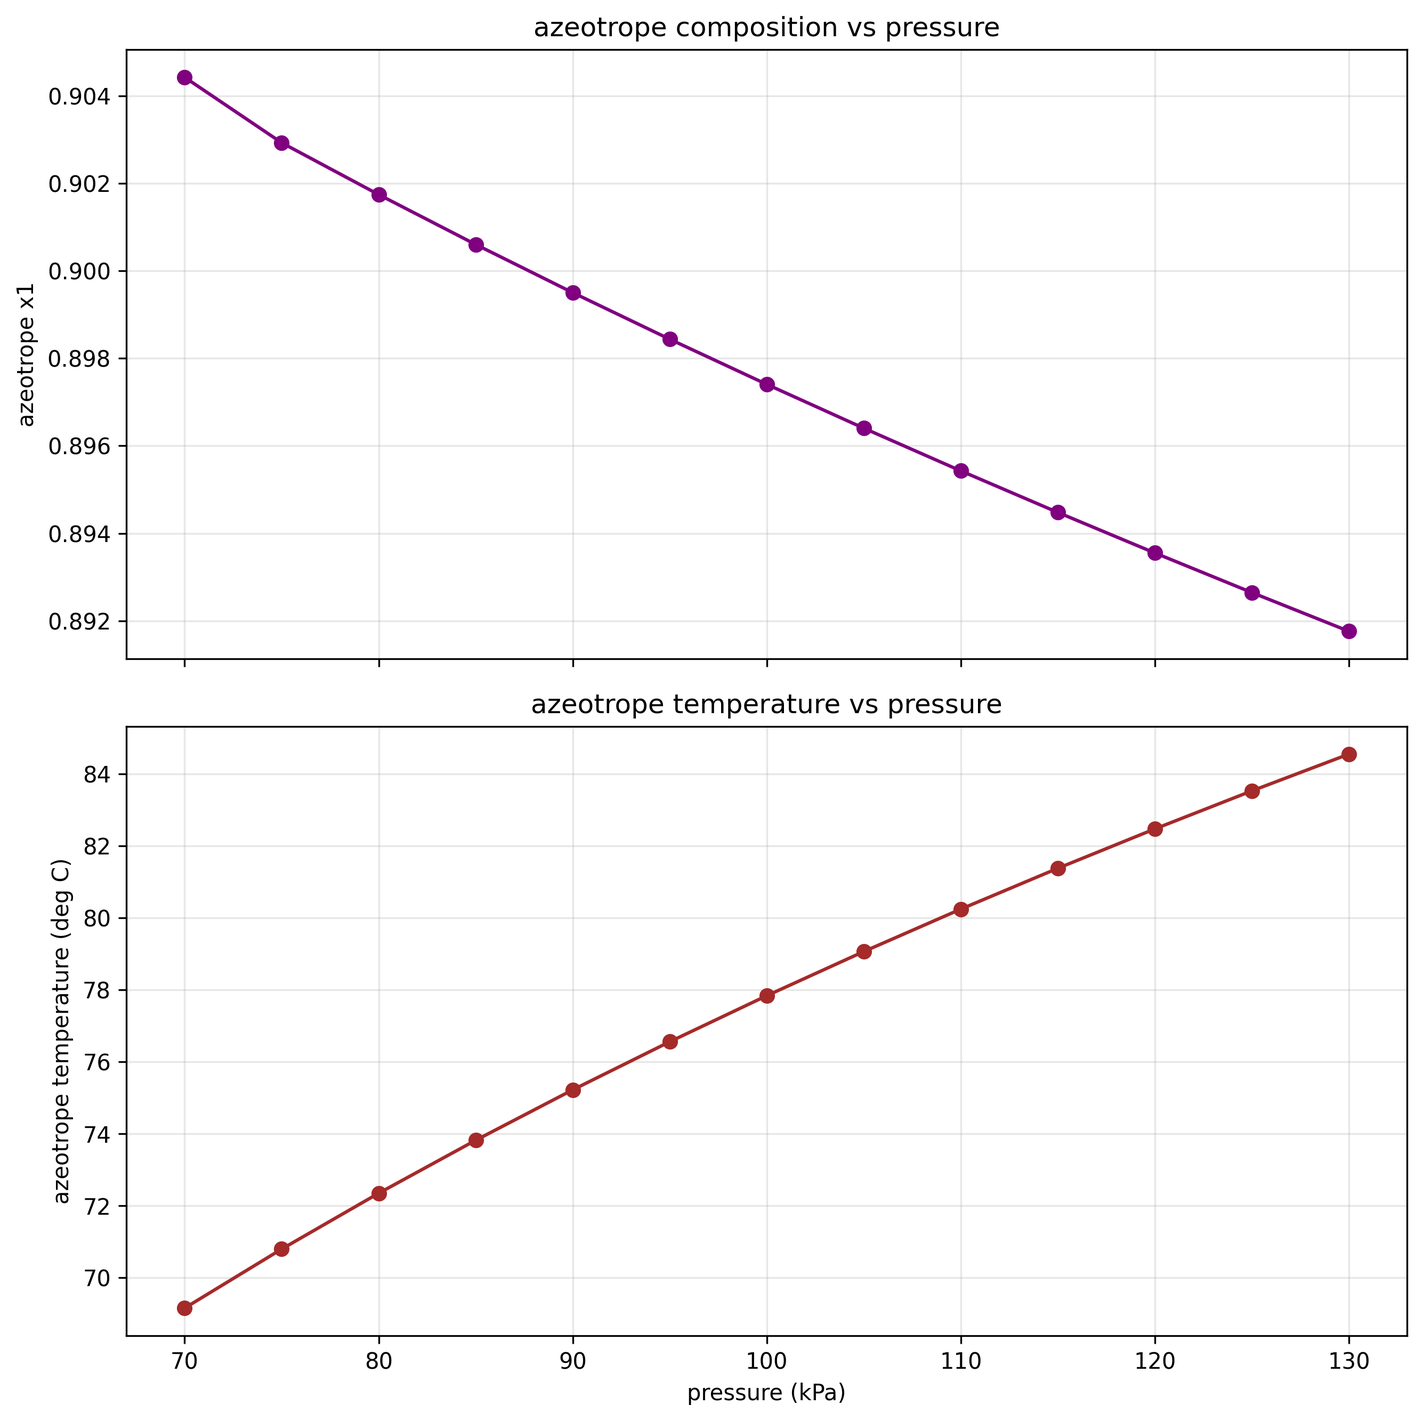
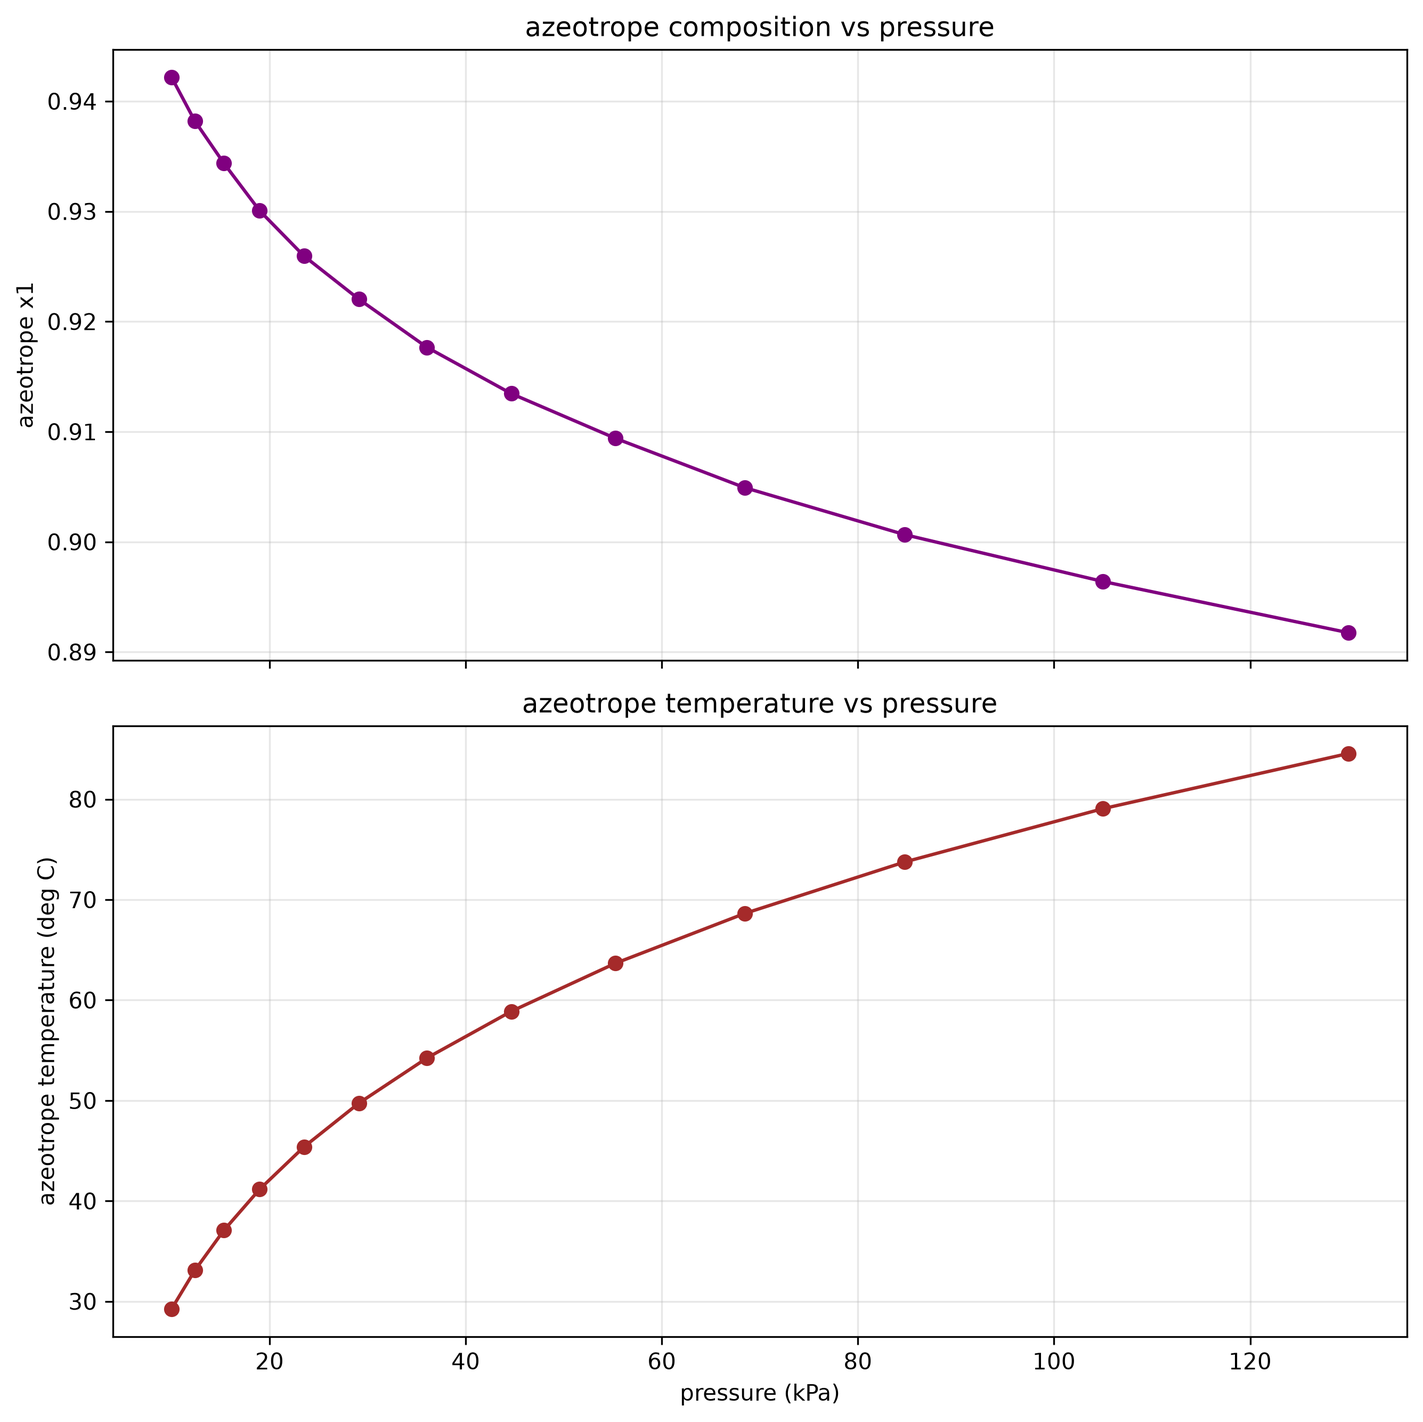
docs: README in the common format; regenerate stale outputs; fix pure boiling points
README
- Same structure as the other repositories: key result, what the project is,
  results, quick start, validation, limitations, structure, sources, references.
  The changelog-style sections ("Current Capabilities", "Optimization Notes")
  are gone.
- States which code is current: report2026/ (the report and the numbers on the
  page); src/ is the original course code. Both use the same NRTL parameters;
  their vapour-pressure correlations give 0.072 vs 0.088 K mean error.
- Directory tree now lists report2026/, web/, data/experimental/, final_outputs/.
- Test count 45 -> 47 (46 plus the new one below); 13 report2026 tests listed.
- Michelsen (1982) flash/stability papers removed: nothing in the code uses
  them, and a binary VLE at fixed P does not need a stability analysis. Added
  the references the calculations do use (Ambrose & Sprake, IAPWS-95,
  Tsonopoulos, Herington), matching the report.
- Dropped the PYTHONUTF8 hint; the verification script reconfigures stdout.

Fixes
- src/main.py printed the bubble temperature at x1 = 0.01 and 0.99 as the
  pure-component boiling points (97.1 degC for water). New models.tsat_celsius
  inverts the Antoine equation; water now prints 100.0 degC, ethanol 78.3 degC.
- final_outputs/data/run_summary.json still attributed the parameters to the
  NIST WebBook and DECHEMA, the sources the README had already corrected, and
  the pressure sweep was from an older grid. Regenerated with
[…]

diff --git a/src/main.py b/src/main.py
@@ -6,6 +6,7 @@ from __future__ import annotations
 import argparse
 from pathlib import Path
 
+from models import tsat_celsius
 from pipeline import run_analysis
 
 
@@ -33,8 +34,11 @@ def print_summary(result) -> None:
     print(f"max HE (J/mol): {result.HE_j_mol.max():.3f}")
     print(f"min HE (J/mol): {result.HE_j_mol.min():.3f}")
 
-    ethanol_bp = float(result.nrtl.T_celsius[-1])
-    water_bp = float(result.nrtl.T_celsius[0])
+    # Pure-component boiling points from the Antoine sets (the composition grid
+    # stops at x1 = 0.01 and 0.99, where the bubble point is already shifted)
+    pressure = result.system.pressure_kpa
+    water_bp = tsat_celsius(pressure, result.system.component_2.antoine)
+    ethanol_bp = tsat_celsius(pressure, result.system.component_1.antoine)
     print(f"boiling point water   : {water_bp:.3f} deg C")
     print(f"boiling point ethanol : {ethanol_bp:.3f} deg C")
 

diff --git a/tests/test_models.py b/tests/test_models.py
@@ -16,6 +16,7 @@ from models import (
     gamma_van_laar,
     psat_kpa,
     tau_value,
+    tsat_celsius,
 )
 from parameter_store import load_system_parameters
 
@@ -37,6 +38,13 @@ class TestAntoineEquation(unittest.TestCase):
         """Water Psat at 100.0 degC should be ~101.3 kPa."""
         psat = psat_kpa(100.0, self.water)
         self.assertAlmostEqual(psat, 101.325, delta=2.0)
+
+    def test_tsat_inverts_psat(self):
+        """tsat_celsius is the exact inverse of psat_kpa (normal boiling points at 1 atm)."""
+        for comp, bp in ((self.water, 100.0), (self.ethanol, 78.3)):
+            T = tsat_celsius(101.325, comp)
+            self.assertAlmostEqual(psat_kpa(T, comp), 101.325, places=9)
+            self.assertAlmostEqual(T, bp, delta=0.1)
 
     def test_psat_monotonically_increasing(self):
         """Psat must increase with temperature for both components."""

diff --git a/src/models.py b/src/models.py
@@ -68,6 +68,16 @@ def psat_kpa(T_celsius: float, params: AntoineParams) -> float:
     return psat
 
 
+def tsat_celsius(pressure_kpa: float, params: AntoineParams) -> float:
+    r"""Saturation temperature in degC at a given pressure (inverse of :func:`psat_kpa`).
+
+    .. math::
+        T = \frac{B}{A - \log_{10} P^{\mathrm{sat}}} - C
+    """
+    p = pressure_kpa / 0.133322 if params.unit.lower() == "mmhg" else pressure_kpa
+    return params.B / (params.A - np.log10(p)) - params.C
+
+
 def dpsat_dT_kpa_per_celsius(T_celsius: float, params: AntoineParams) -> float:
     r"""Temperature derivative of Antoine saturation pressure, kPa/degC.
 

diff --git a/README.md b/README.md
@@ -1,205 +1,135 @@
-# Ethanol-Water VLE Final Project
+# Ethanol-Water-VLE
+
+[![CI](https://github.com/Shuruyue/Ethanol-Water-VLE/actions/workflows/ci.yml/badge.svg)](https://github.com/Shuruyue/Ethanol-Water-VLE/actions/workflows/ci.yml)
+![Python 3.10+](https://img.shields.io/badge/python-3.10%2B-blue)
+![License: MIT](https://img.shields.io/badge/license-MIT-green)
 
 **[Interactive page](https://shuruyue.github.io/Ethanol-Water-VLE/web/ethanol-water-vle.html)**: move the sliders to recompute T–x–y, the deviation from the Kamihama et al. (2012) data, ΔH_mix and the McCabe–Thiele column live in the browser (one self-contained file; also works offline). The ideal-solution model misses the boiling points of ethanol–water at 1 atm by up to 11 K and cannot produce the azeotrope; NRTL with literature parameters matches the 21 measured points to 0.07 K on average and puts the azeotrope at x₁ = 0.895 and 78.14 °C (measured: 0.895 and 78.11 °C).
 
 [![The interactive page: T–x–y diagram, close-up of the azeotrope and relative volatility](web/ethanol-water-vle.png)](https://shuruyue.github.io/Ethanol-Water-VLE/web/ethanol-water-vle.html)
 
-This repository contains the computation code for the chemical thermodynamics final project.
-The scope is ethanol(1)-water(2) with non-ideal liquid behavior.
+## Ethanol–Water VLE with NRTL
+
+Final project of a chemical thermodynamics course (Sandler, *Chemical, Biochemical, and Engineering Thermodynamics*): vapour–liquid equilibrium of ethanol(1)–water(2) at 1 atm with an activity-coefficient model, the excess properties, and what the non-ideality means for the energy demand and design of a distillation column. The models are validated against the isobaric data of Kamihama et al. (2012).
 
 > This project originally lived in the `vle_consulting/` folder of a fork of
 > [CalebBell/thermo](https://github.com/CalebBell/thermo) (the fork has since been removed).
 > It was split out with its full commit history; the code does not depend on that fork.
-> `tests/verify_scientific_correctness.py` can optionally cross-check the NRTL
-> implementation against the `thermo` package (`pip install thermo`).
 
-## Current Capabilities
+### Two code bases
 
-- VLE prediction at fixed pressure: `T-x-y`, `y-x`
-- Excess properties from NRTL: `GE`, `HE`, `CPE`
-- Model comparison: ideal, Van Laar, NRTL
-- Interactive dashboard (Wolfram-style exploration)
-- Practical image-pack export for engineering decisions
-- Final build pipeline: plots + CSV tables + summary JSON
-- Shared profile engine for CLI/export/UI consistency (`src/profiles.py`)
-- Interpolated azeotrope detection (sub-grid estimate)
-- Isothermal export includes `alpha12` (relative volatility) directly
-- Dashboard supports one-click CSV download of current state
+| Folder | What it is | Vapour pressure |
+|---|---|---|
+| [`report2026/`](report2026/) | **The current analysis.** The revised report (PDF) and the calculations behind every number in it: parameter regression, validation, Herington consistency test, excess properties, azeotrope vs pressure, pressure-swing and column design, ethylene glycol ternary data. The results on this page come from here. | ethanol: NIST Antoine set (Ambrose & Sprake 1970); water: IAPWS-95 |
+| [`src/`](src/) | The original course-project code: command-line analysis, Streamlit dashboard, figure and CSV export to `final_outputs/`. | tabulated mmHg / °C Antoine sets ([`data/parameter_db.json`](data/parameter_db.json)) |
 
-## Directory
+Both use the same literature NRTL parameters. The vapour-pressure correlations shift the results slightly: the mean temperature error against the data is 0.072 K in `report2026/` and 0.088 K in `src/`, and the azeotrope is at x₁ = 0.895, 78.14 °C and x₁ = 0.897, 78.17 °C. The interactive page can switch between the two.
+
+## Key Results
+
+At 101.3 kPa, against the 21 points of Kamihama et al. (2012) (`report2026/`):
+
+| Model | Mean \|ΔT\| | Max \|ΔT\| | Mean \|Δy₁\| | Azeotrope |
+|---|---|---|---|---|
+| Ideal solution (Raoult's law) | 5.5 K | 11.2 K | 0.092 | none |
+| NRTL, literature parameters (Aspen / DDB) | 0.072 K | 0.28 K | 0.0027 | x₁ = 0.895, 78.14 °C |
+| NRTL, fitted to the data here | 0.116 K | 0.61 K | 0.0039 | x₁ = 0.891, 78.13 °C |
+| Van Laar, fitted to the data here | 0.080 K | 0.35 K | 0.0031 | x₁ = 0.892, 78.13 °C |
+| Measured | | | | x₁ = 0.895, 78.11 °C |
+
+- The data pass the Herington consistency test (D = 3.7 < J = 9.3).
+- Vapour-phase non-ideality (Tsonopoulos second virial coefficients) moves the bubble temperature by at most 0.06 K at 1 atm, so the ideal-gas vapour is adequate there.
+- Column design, 100 kmol/h from x_F = 0.10 to x_D = 0.85 at R = 1.3 R_min: the ideal-solution model gives R_min = 6.6 and a reboiler duty of 1250 kW, NRTL gives R_min = 1.9 and 451 kW. The ideal model overestimates the energy demand 2.8-fold, and a column designed with it reaches only x_D = 0.83 in the real system.
+- |ΔH_mix| stays below 0.6 % of the heat of vaporization, so mixing heat does not matter for the column energy balance.
+
+## Quick Start
+
+```bash
+git clone https://github.com/Shuruyue/Ethanol-Water-VLE.git
+cd Ethanol-Water-VLE
+pip install -r requirements.txt pytest pandas chemicals CoolProp
+```
+
+### Report calculations (`report2026/`)
+
+```bash
+cd report2026/calc
+python run_analysis.py && python make_figures.py   # results/ and fig/
+python make_numbers.py && python make_tables.py    # LaTeX number macros and tables
+```
+
+Every number in the PDF is read from `results/results.json`. Building the PDF needs XeLaTeX with Chinese support; see [`report2026/README.md`](report2026/README.md).
+
+### Course code (`src/`)
+
+```bash
+python src/main.py                         # summary and T-x-y, y-x, GE, HE, McCabe-Thiele plots → figures/
+python src/final_build.py --output-root final_outputs --points 80 --t-ref 78.2
+streamlit run src/interactive_app.py       # dashboard: pressure, temperature, NRTL parameters
+```
+
+`final_build.py` writes the committed [`final_outputs/`](final_outputs/): baseline and practical-pack plots, model curves, isothermal G^E/H^E/C_p^E/γ/α₁₂ tables at 78.2 °C, the azeotrope-vs-pressure sweep and `run_summary.json`.
+
+## Validation
+
+```bash
+pytest -q tests                                  # 47 tests of src/, including validation against the measured data
+python tests/verify_scientific_correctness.py    # 22 scientific checks (optional cross-check with `pip install thermo`)
+cd report2026/calc && pytest -q test_core.py     # 13 tests: Gibbs–Helmholtz, pure-component limits, azeotrope vs experiment
+```
+
+CI runs all three on Ubuntu and Windows with Python 3.10 and 3.12.
+
+## Limitations
+
+- Binary system only, with constant-molar-overflow McCabe–Thiele columns (saturated-liquid feed, total condenser; no tray efficiency or hydraulics).
+- The literature NRTL parameters come without uncertainties; standard errors are given only for the parameters fitted here.
+- The `src/` Antoine set for ethanol is tabulated up to 80 °C and is extrapolated at the water-rich end of the 1 atm diagram (deviation from the Schroeder et al. 2014 reference equation of state below 0.8 % up to 100 °C).
+- `src/` treats the vapour as an ideal gas. `report2026/` checks the second-virial correction, which is small at 1 atm but grows with pressure (the pressure-swing case goes up to 300 kPa).
+
+## Project Structure
 
 ```text
 Ethanol-Water-VLE/
+├── report2026/                 # current analysis and report
+│   ├── calc/                   # vle_core.py, run_analysis.py, figure/number/table scripts, test_core.py
+│   ├── data/                   # Kamihama et al. (2012): binary and ternary data with ethylene glycol
+│   ├── results/                # results.json and CSV tables (generated)
+│   ├── fig/  tex/              # figures and LaTeX source
+│   └── VLE_Consulting_Report_2026.pdf
+├── src/                        # original course code
+│   ├── models.py  solver.py    # Antoine, ideal / Van Laar / NRTL, bubble-point solver
+│   ├── pipeline.py  analysis.py  profiles.py  experimental_data.py  parameter_store.py
+│   ├── main.py  final_build.py  output_pack.py  export_data.py  plotting.py
+│   └── interactive_app.py      # Streamlit dashboard
 ├── data/
-│   └── parameter_db.json
-├── figures/
-├── src/
-│   ├── main.py
-│   ├── interactive_app.py
-│   ├── output_pack.py
-│   ├── export_data.py
-│   ├── final_build.py
-│   ├── pipeline.py
-│   ├── parameter_store.py
-│   ├── models.py
-│   ├── solver.py
-│   ├── analysis.py
-│   ├── profiles.py
-│   └── plotting.py
-└── tests/
-    ├── conftest.py
-    ├── test_models.py
-    ├── test_solver.py
-    ├── test_analysis.py
-    ├── test_plotting.py
-    ├── test_pipeline.py
-    ├── test_parameter_store.py
-    ├── test_output_pack.py
-    ├── test_export_data.py
-    └── verify_scientific_correctness.py
+│   ├── parameter_db.json       # parameters with sources (used by src/)
+│   └── experimental/           # Kamihama et al. (2012) ethanol–water at 101.3 kPa
+├── final_outputs/              # plots and tables written by src/final_build.py
+├── tests/                      # pytest suite for src/ and verify_scientific_correctness.py
+├── web/                        # interactive page (GitHub Pages)
+└── .github/workflows/ci.yml
 ```
 
-## Install
+## Data and Parameter Sources
 
-```bash
-pip install -r requirements.txt
-```
+- **NRTL**: Aspen Plus databank values regressed from the Dortmund Data Bank (a₁₂ = −0.8009, b₁₂ = 246.18 K, a₂₁ = 3.4578, b₂₁ = −586.08 K, α = 0.3), as tabulated in Beneke et al. (2013), Appendix B. τᵢⱼ = aᵢⱼ + bᵢⱼ/T.
+- **Vapour pressure**: `report2026/` uses the NIST WebBook Antoine set for ethanol (Ambrose & Sprake 1970, 292.77–366.63 K) and IAPWS-95 for water. `src/` uses common tabulated mmHg / °C Antoine sets (ethanol −57 to 80 °C, water −20 to 100 °C); these are not NIST sets.
+- **Van Laar**: A₁₂ = 1.65, A₂₁ = 0.95 in `src/` are the illustrative values of the course handout code, not literature values; `report2026/` fits A₁₂ = 1.700 ± 0.013, A₂₁ = 0.953 ± 0.002.
+- **Experimental data**: Kamihama et al. (2012), transcribed from the NIST TRC ThermoML archive with the TRC expanded uncertainties.
+- `data/parameter_db.json` stores every parameter block with its source; the loader rejects blocks without one.
 
-## Run Baseline CLI
+## References
 
-```bash
-python src/main.py
-python src/main.py --points 80
-python src/main.py --output-dir figures
-python src/main.py --no-plots
-```
+1. H. Renon, J. M. Prausnitz, Local compositions in thermodynamic excess functions for liquid mixtures, *AIChE J.* **14** (1968) 135–144.
+2. N. Kamihama, H. Matsuda, K. Kurihara, K. Tochigi, S. Oba, Isobaric vapor–liquid equilibria for ethanol + water + ethylene glycol and its constituent three binary systems, *J. Chem. Eng. Data* **57** (2012) 339–344. [doi:10.1021/je2008704](https://doi.org/10.1021/je2008704)
+3. D. Beneke, M. Peters, D. Glasser, D. Hildebrandt, *Understanding Distillation Using Column Profile Maps*, Wiley, 2013, Appendix B.
+4. D. Ambrose, C. H. S. Sprake, Thermodynamic properties of organic oxygen compounds XXV, *J. Chem. Thermodyn.* **2** (1970) 631–645.
+5. W. Wagner, A. Pruß, The IAPWS formulation 1995 for the thermodynamic properties of ordinary water substance, *J. Phys. Chem. Ref. Data* **31** (2002) 387–535.
+6. C. Tsonopoulos, An empirical correlation of second virial coefficients, *AIChE J.* **20** (1974) 263–272.
+7. E. F. G. Herington, Tests for the consistency of experimental isobaric vapour–liquid equilibrium data, *J. Inst. Petrol.* **37** (1951) 457–470.
+8. S. I. Sandler, *Chemical, Biochemical, and Engineering Thermodynamics*, 5th ed., Wiley, 2017.
 
-## Run Interactive Dashboard
+## License
 
-```bash
-streamlit run src/interactive_app.py
-```
-
-Interactive controls:
-
-- Pressure (kPa)
-- Reference temperature (deg C)
-- Grid size
-- Full NRTL parameter set: `alpha12`, `alpha21`, `a12`, `b12`, `a21`, `b21`
-
-## Generate Practical Output Pack
-
-```bash
-python src/output_pack.py --output-dir figures/practical_pack --t-ref 78.2 --points 80
-```
-
-Default output set (recommended for real-world discussion):
-
-1. `txy_ethanol_water_1atm.png`: boiling/dew temperature design map
-2. `yx_ethanol_water_1atm.png`: separation trajectory map
-3. `ge_ethanol_water_1atm.png`: non-ideality intensity
-4. `he_ethanol_water_1atm.png`: thermal effect of mixing
-5. `isothermal_excess_bundle_tXXc.png`: `GE`, `HE`, `CPE` at chosen temperature
-6. `cpe_ethanol_water_tXXc.png`: excess heat-capacity signal
-7. `gamma_ethanol_water_tXXc.png`: activity coefficients vs composition
-8. `relative_volatility_ethanol_water_tXXc.png`: separation driving force map
-9. `azeotrope_pressure_sensitivity.png`: how azeotrope location shifts with pressure
-
-## Build Final Deliverable Bundle
-
-```bash
-python src/final_build.py --output-root final_outputs --points 80 --t-ref 78.2
-```
-
-This generates:
-
-- `final_outputs/plots/`:
-  baseline and practical-pack figures
-- `final_outputs/data/baseline/`:
-  model curves and bubble-line excess properties CSV
-- `final_outputs/data/isothermal/`:
-  fixed-temperature `GE/HE/CPE/gamma/alpha12` CSV
-- `final_outputs/data/sensitivity/`:
-  azeotrope-pressure sensitivity CSV
-- `final_outputs/data/run_summary.json`:
-  key metrics + relative-volatility range + azeotrope-vs-literature offsets
-
-## Optimization Notes (Current Version)
-
-### 1) Architecture
-
-- Unified repeated post-processing into `src/profiles.py`.
-- `output_pack.py`, `export_data.py`, and `interactive_app.py` now use the same profile builders.
-- Reduced divergence risk between CLI plots, exported CSV, and dashboard values.
-
-### 2) Core Algorithms
-
-- Added vectorized NRTL evaluator (`gamma_nrtl_binary`) and reused it in excess-property curve generation.
-- Added Antoine derivative function `dPsat/dT` for solver diagnostics and derivative-ready extensions.
-- Bubble-point solver now supports continuation-style bracketing (`T_guess`) to improve robustness.
-- Azeotrope finder now interpolates across `y-x` sign changes for sub-grid accuracy.
-
-### 3) UI and Output
-
-- Dashboard now overlays Van Laar against Ideal/NRTL in both `T-x-y` and `y-x`.
-- Added literature azeotrope marker for quick visual sanity check.
-- Added dashboard CSV download for reporting/review handoff.
-- Extended summary JSON with relative-volatility envelope and azeotrope deviation metrics.
-
-### 4) Verification Loop
-
-- Unit/regression tests: `pytest -q tests` (45 passed, incl. validation against experimental data)
-- Scientific verification script:
-  - Windows recommendation: `set PYTHONUTF8=1` then `python tests/verify_scientific_correctness.py`
-
-## Data Rules
-
-- Parameters are loaded only from `data/parameter_db.json`.
-- Every parameter block must include source metadata.
-- NRTL uses explicit constant and temperature terms:
-  - `tau_ij(T) = a_ij + b_ij / T`
-- Loader rejects datasets where both `a12` and `a21` are zero.
-
-## Real-World Gaps To Add Next
-
-To improve real-plant fidelity, add these datasets next:
-
-- pressure-dependent vapor-phase non-ideality (`phi` correction)
-- liquid density and heat-capacity data for full energy balance
-- validated pressure-swing azeotrope points from literature
-- uncertainty bounds for NRTL parameters (confidence intervals)
-- pilot or plant composition-temperature samples for model calibration
-
-## References Used In Database
-
-- Antoine coefficients: common tabulated sets in mmHg / deg C (ethanol valid -57 to 80 deg C,
-  water -20 to 100 deg C). These are **not** NIST WebBook sets (NIST uses bar / K);
-  the 1 atm water-rich end (up to 100 deg C) is an extrapolation for ethanol.
-- NRTL parameters: Aspen Plus databank values regressed from the Dortmund Data Bank,
-  as tabulated in Beneke, Peters, Glasser & Hildebrandt, *Understanding Distillation
-  Using Column Profile Maps*, Wiley (2013), Appendix B. (Earlier versions of this README
-  attributed them to DECHEMA Vol. I, which is not correct.)
-- Van Laar parameters: the illustrative values from the course handout code (not literature); kept only for model comparison.
-- Experimental validation data: Kamihama et al., *J. Chem. Eng. Data* 57 (2012) 339-344,
-  doi:10.1021/je2008704 (`data/experimental/`, via NIST TRC ThermoML).
-- Course textbook: Sandler, *Chemical, Biochemical, and Engineering Thermodynamics*, 5th ed., Wiley (2017).
-
-## 2026 Report Revision (`report2026/`)
-
-`report2026/` is a self-contained, fully reproducible rewrite of the final report
-(XeLaTeX + Python). Every number in the PDF is generated from `results/results.json`.
-
-```bash
-cd report2026
-pip install numpy scipy pandas matplotlib chemicals CoolProp
-python calc/run_analysis.py && python calc/make_figures.py
-python calc/make_numbers.py && python calc/make_tables.py
-cd tex && xelatex report.tex && xelatex report.tex
-```
-
-## Algorithm References
-
-- Renon, H.; Prausnitz, J. M. (1968). *Local compositions in thermodynamic excess functions for liquid mixtures*. AIChE Journal, 14(1), 135-144. (NRTL origin)
-- Michelsen, M. L. (1982). *The Isothermal Flash Problem. Part I. Stability*. Fluid Phase Equilibria, 9, 1-19.
-- Michelsen, M. L. (1982). *The Isothermal Flash Problem. Part II. Phase-Split Calculation*. Fluid Phase Equilibria, 9, 21-40.
-- SciPy documentation for Brent root solver (`scipy.optimize.brentq`) used for robust 1D root finding.
+MIT License.
